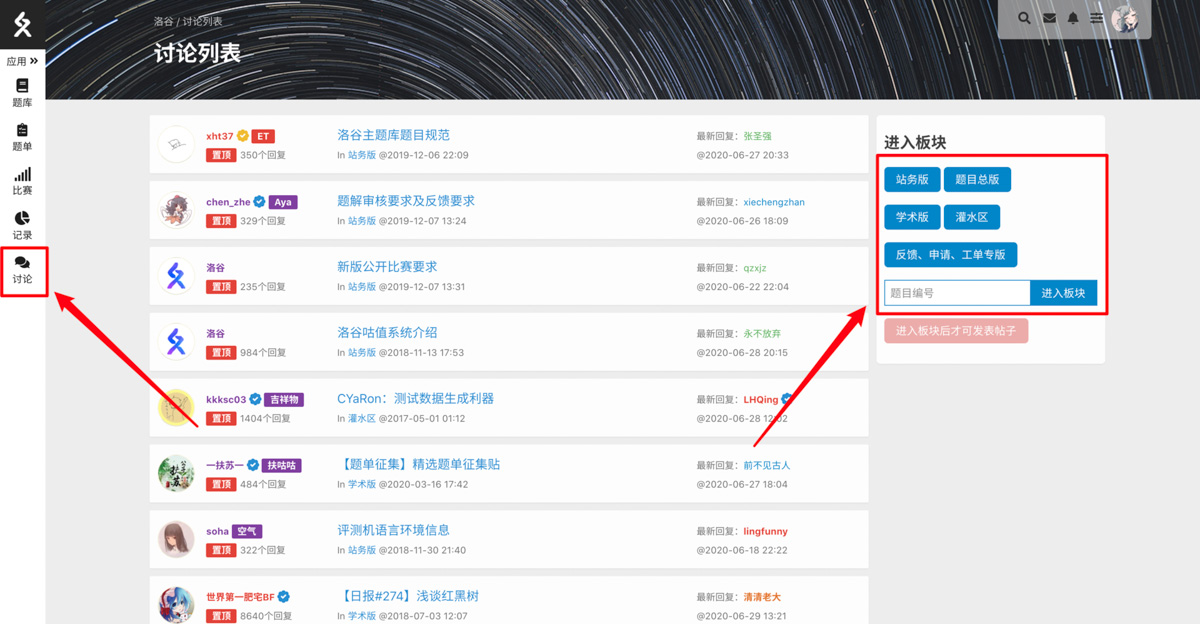
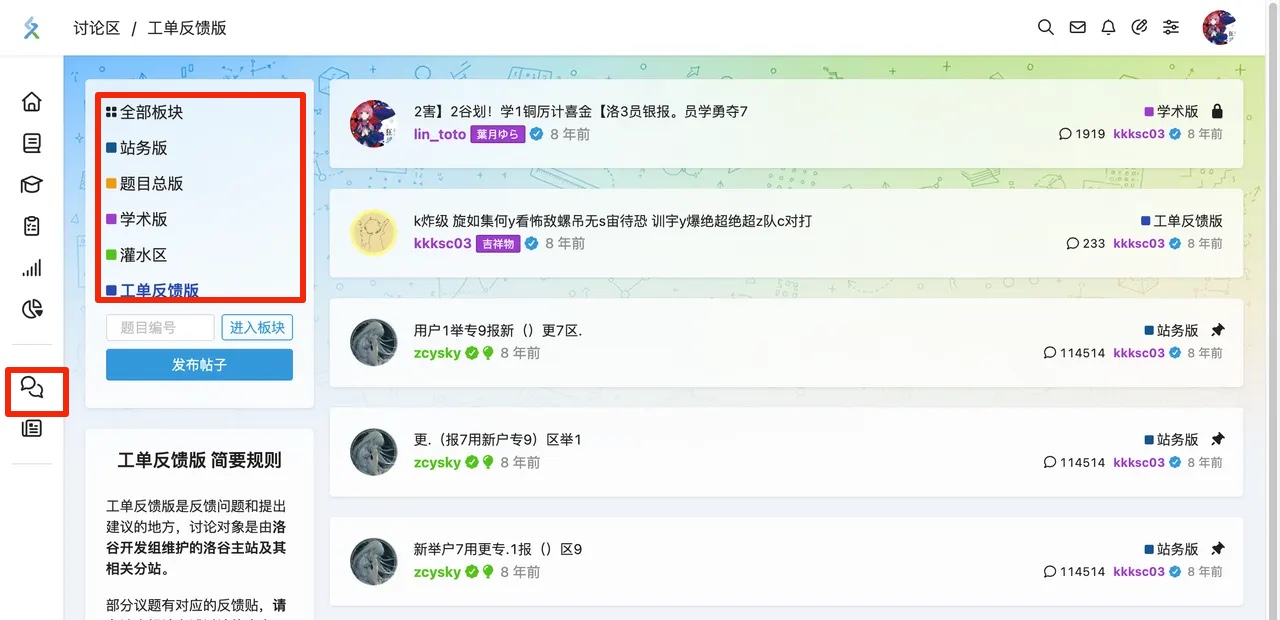
更新常见问题页面截图与说明

diff --git a/docs/manual/luogu/faq.md b/docs/manual/luogu/faq.md
@@ -64,13 +64,13 @@ sidebar_position: 2
 
 新成员：  
 
-请通过团队内成员分享的团队链接加入团队。请注意，洛谷个人用户可加入的团队是有上限的，超出了则会被限制加入其他团队。你可以通过撤销入团申请与退出一些团队解决。
+访问团队成员分享的团队链接即可加入团队；如果团队要求审核，还需等待审核通过。请注意，洛谷个人用户可加入的团队是有上限的，超出了则会被限制加入其他团队。你可以通过撤销入团申请与退出一些团队解决。
 
 邀请方：  
 
 请进入你的团队主页，在团队主页点击团队编号后面的蓝色【复制地址】的文字，会将该页面的地址复制到剪贴板中。然后将该地址发送给需要邀请的新成员。
 
-![复制团队地址](_image/pt-member-review-9972470.png)
+![复制团队地址](_image/team-invite-link.png)
 
 如果发现团队出现违反洛谷规则的行为，提交公开比赛等，需要向洛谷举报并退出团队，否则可能负连带责任。
 
@@ -82,19 +82,21 @@ sidebar_position: 2
 
 ## 如何使用剪贴板？ {#pastebin}
 
-![图片](_image/pastebin-1.png)
+在左侧栏的“更多功能”中点击“云剪贴板”，进入云剪贴板。
 
-![图片](_image/pastebin-2.png)
+![左侧栏云剪贴板入口](_image/more-features-paste.png)
+
+![查看云剪贴板](_image/pastebin-view.png)
 
 云剪贴板可以存放任何文本，保存后的文本，通过点击“查看”，将文本的网页链接分享给其他人。
 
 ## 如何使用图床？ {#image-upload}
 
-![图片](_image/imageupload-1.jpeg)
+在左侧栏的“更多功能”中点击“图片上传”，进入图床。
 
-![图片](_image/imageupload-2.jpeg)
+![左侧栏图片上传入口](_image/more-features-image.png)
 
-![图片](_image/imageupload-3.jpeg)
+![图床上传和图片列表](_image/image-upload-guide.png)
 
 上传成功的图片右下角有两个图标，点击 1 号图标表示复制了该图片的网页链接；点击 2 号链接表示复制后可以在 Markdown 里粘贴使用的链接。
 
